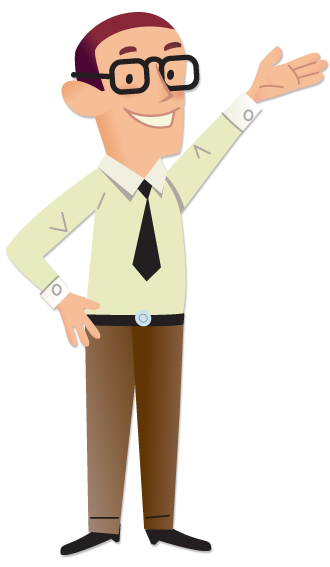
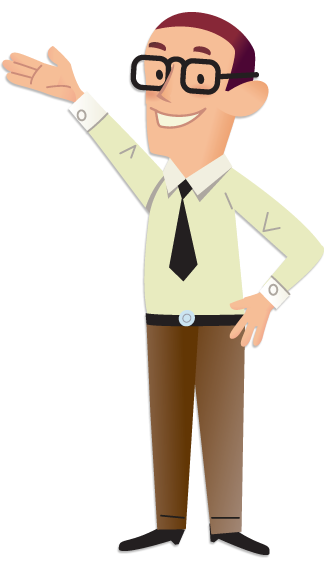
Working on about page

diff --git a/rlp-frontend-react/src/About/About.js b/rlp-frontend-react/src/About/About.js
@@ -7,11 +7,8 @@ function About(){
   return(
     <div>
       <Header />
-      <div className="page-container">
+      <div className="info-container">
           <div className="About-Us-info">
-          <div className="img">
-              <img src={about} alt="about photo">
-              </img>
           <h1>
                 About us page for user information about the team
           </h1>
@@ -19,7 +16,9 @@ function About(){
                 Program was created by a team of second year developers<br></br>studying at Brunel University London<br></br>
           </h2>
           </div>
-
+          <div className="img">
+              <img src={about} alt="about photo" width="330" height="560">
+              </img>
           </div>
           </div>
           </div>

diff --git a/rlp-frontend-react/src/About/About.css b/rlp-frontend-react/src/About/About.css
@@ -29,15 +29,15 @@
   color: white;
   background-color: #1865F2;
 }
+.info-container{
+    display: flex;
+    align-items: center;
+    padding: 70px 100px;
+}
 
-.button {
-  border: none;
-  outline: 0;
-  display: inline-block;
-  padding: 8px;
-  color: white;
-  background-color: #000;
-  text-align: center;
-  cursor: pointer;
-  width: 100%;
+.info-container h1{
+    font-size: 1.625rem;
+    font-weight: 600;
+    text-align: center;
+    margin: 16px 100px 16px 100px;
 }
